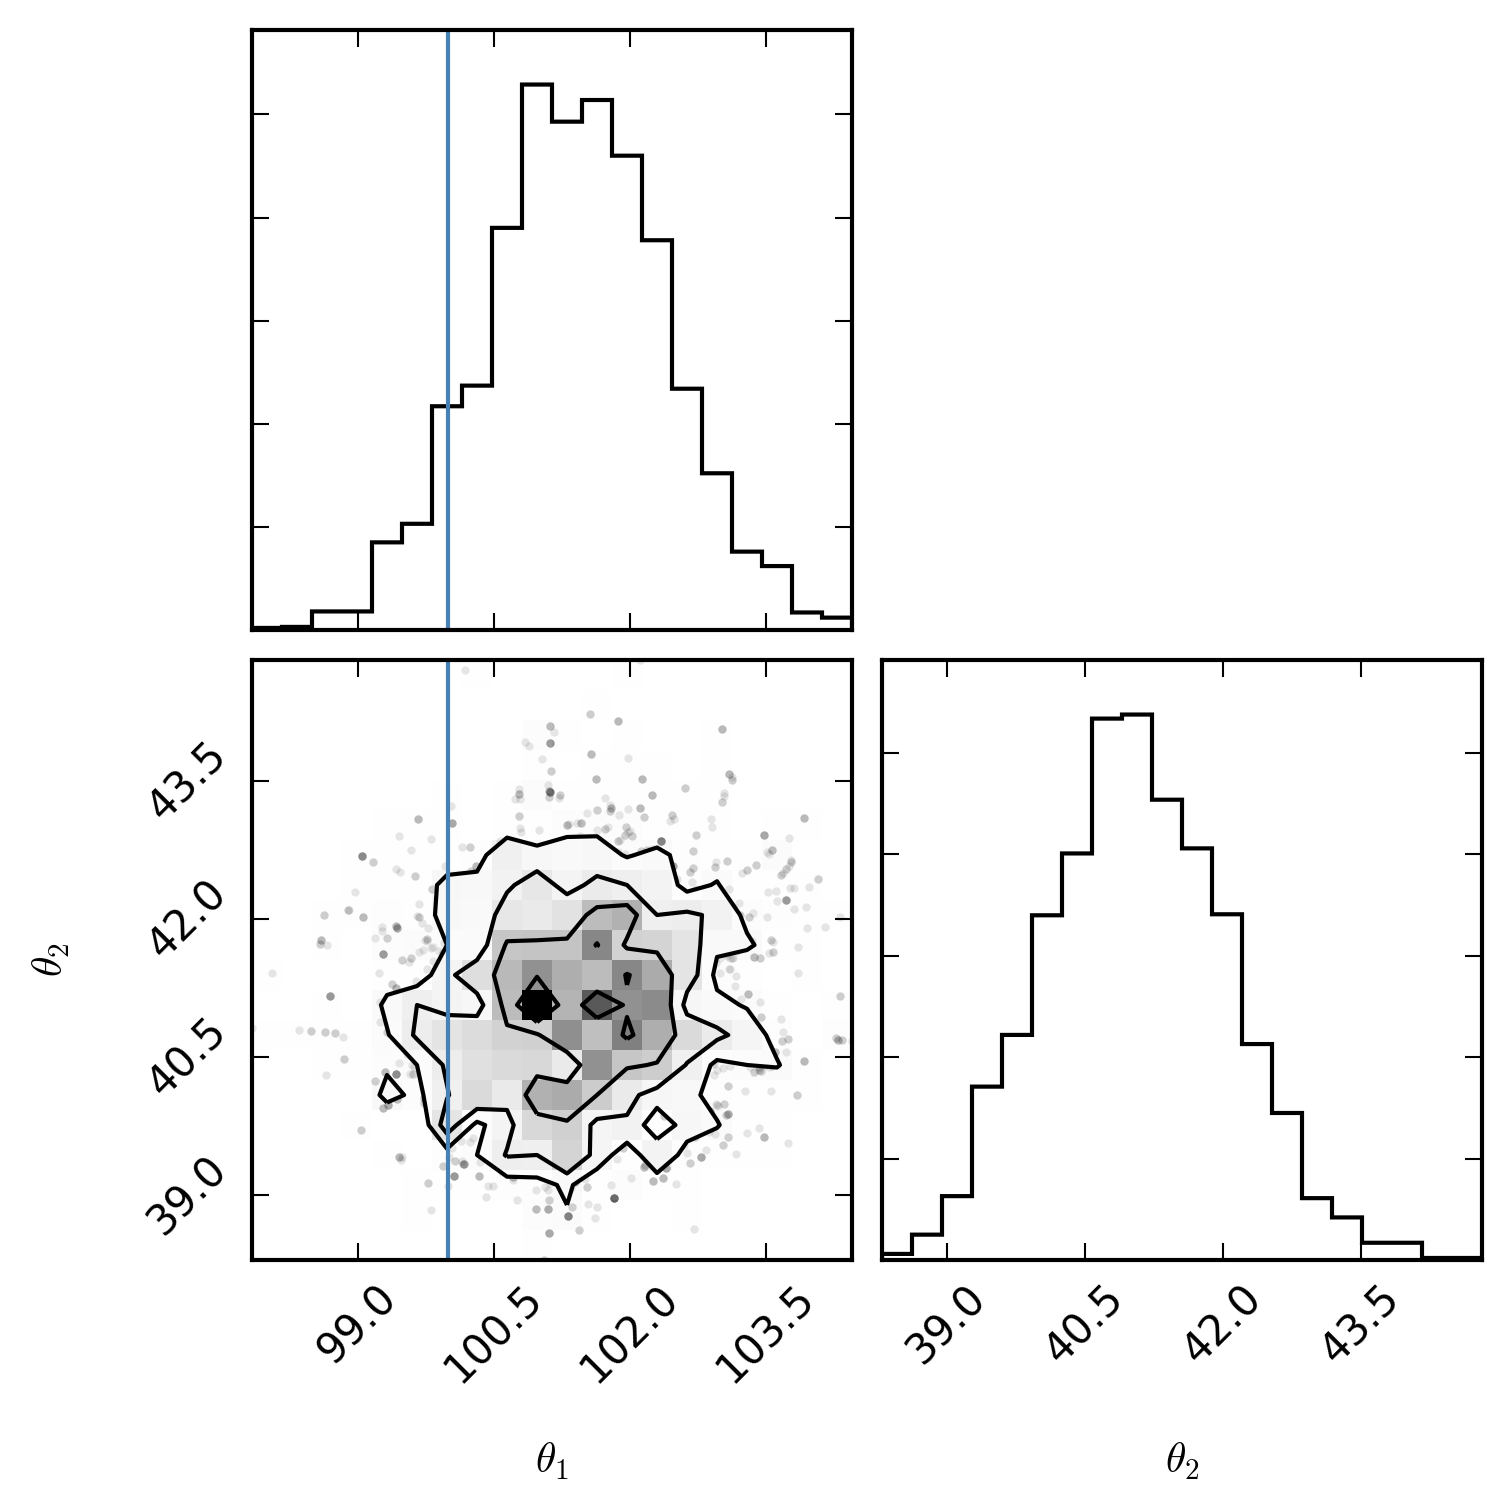
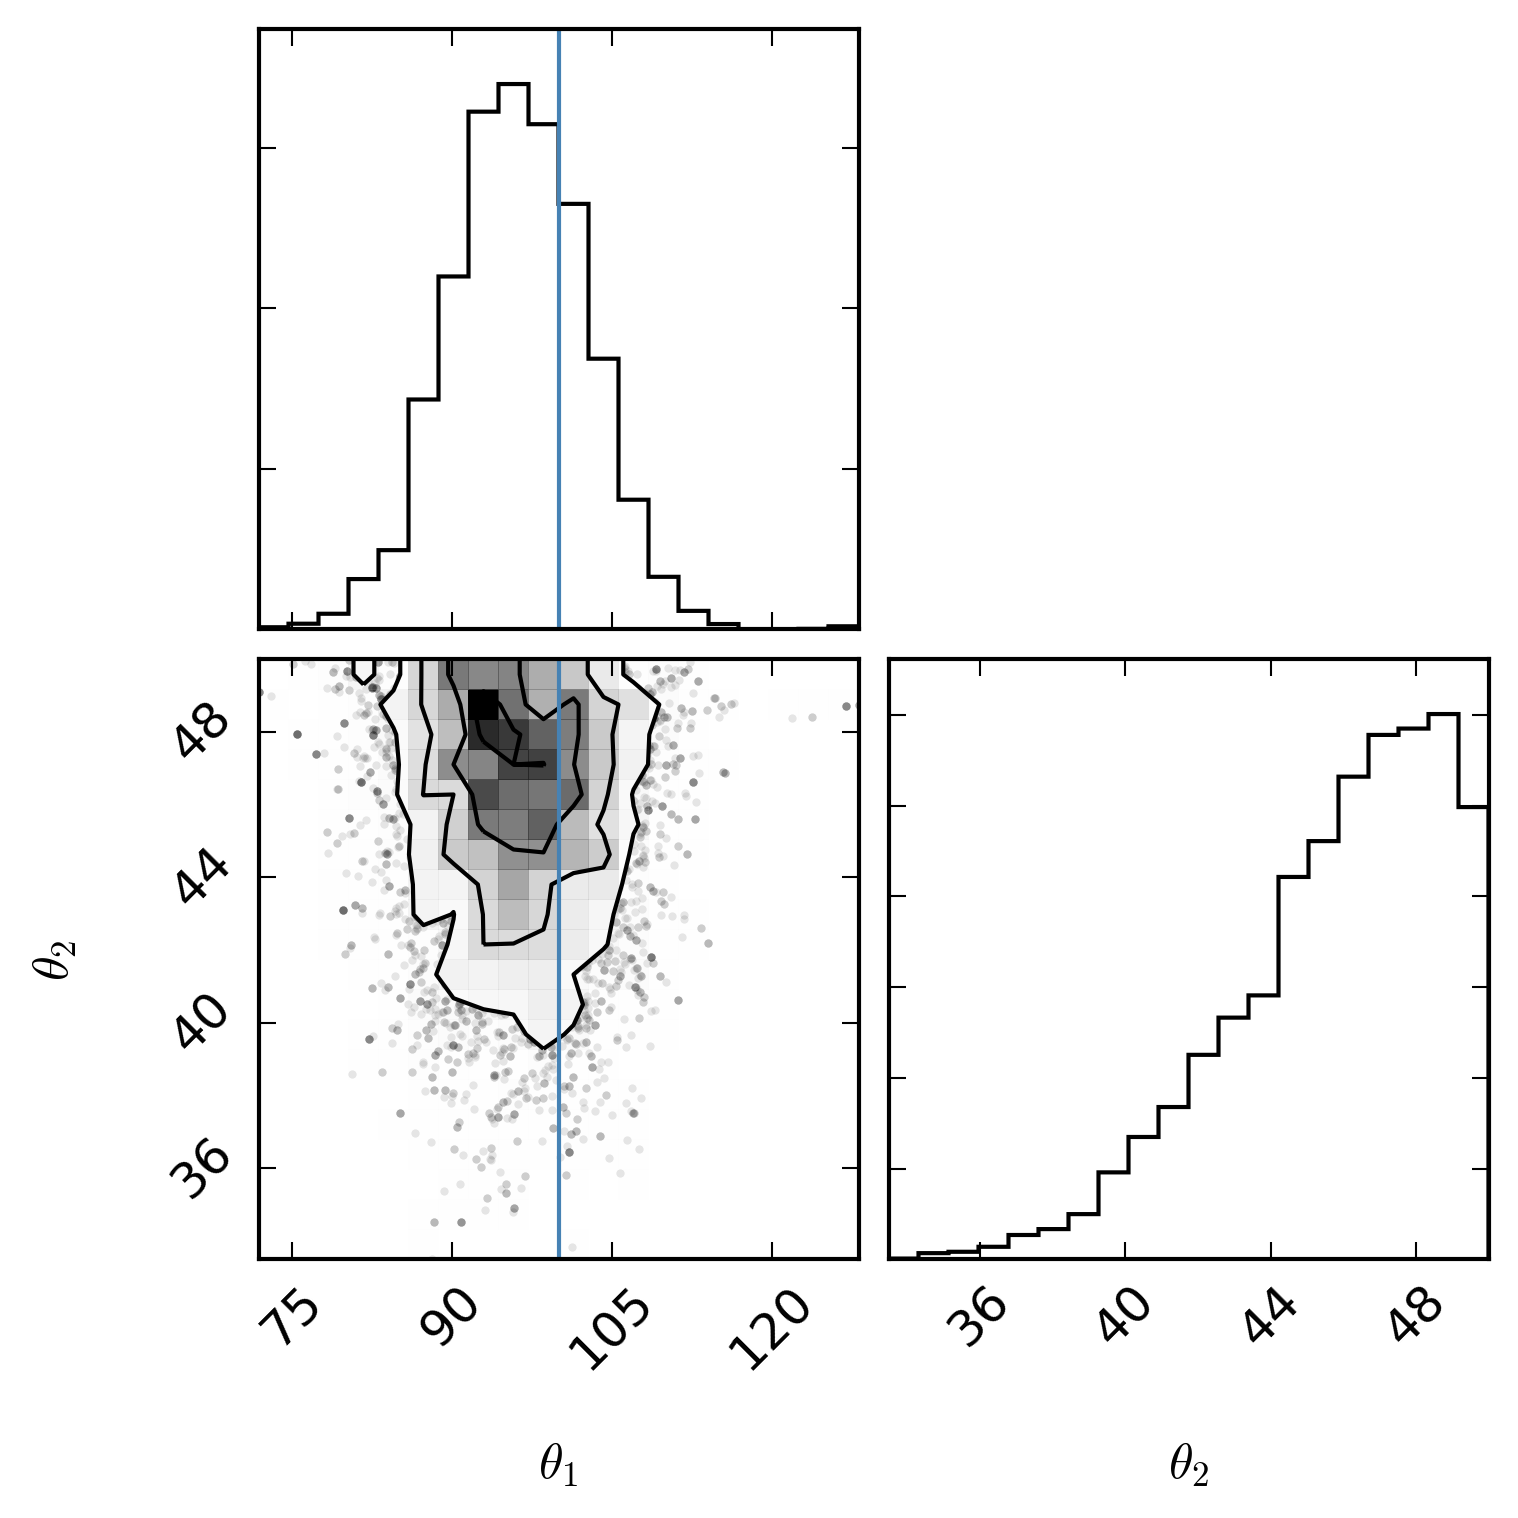
Better results using less data points...

diff --git a/dessn/simple/example.py b/dessn/simple/example.py
@@ -70,13 +70,13 @@ class Example(object):
     """
     __metaclass__ = abc.ABCMeta
 
-    def __init__(self, n=300, theta_1=100.0, theta_2=30.0):
+    def __init__(self, n=30, theta_1=100.0, theta_2=20.0):
         self.n = n
         self.theta_1 = theta_1
         self.theta_2 = theta_2
 
         self.data = stats.norm.rvs(size=n, loc=theta_1, scale=theta_2)
-        self.error = 0.2 * np.sqrt(self.data)
+        self.error = 0.3 * np.sqrt(self.data)
         self.data += stats.norm.rvs(size=n) * self.error
 
         self.sampler = None
@@ -160,10 +160,9 @@ class Example(object):
 
         sampler = emcee.EnsembleSampler(nwalkers, ndim, self.get_posterior, args=[self.data, self.error],
                                         live_dangerously=True)
-        pbar = ProgressBar(widgets=[Counter(), "/" + str(nsteps) + " ", Percentage(), Bar(), Timer(), " ", ETA()],
-                           maxval=nsteps).start()
         for i, result in enumerate(sampler.sample(starting_guesses, iterations=nsteps)):
-            pbar.update(i)
+            if i % 100 == 0:
+                print(i)
 
         sample = sampler.chain[:, nburn:, :ndim_final]  # discard burn-in points
         sample = sample.reshape((-1, ndim_final))

diff --git a/dessn/simple/exampleLatent.py b/dessn/simple/exampleLatent.py
@@ -1,5 +1,5 @@
 import numpy as np
-from example import Example
+from dessn.simple.example import Example
 
     
 class ExampleLatent(Example):
@@ -34,7 +34,7 @@ class ExampleLatent(Example):
         The standard deviation of the underlying supernova luminosity distribution
     """
 
-    def __init__(self, n=300, theta_1=100.0, theta_2=30.0):
+    def __init__(self, n=30, theta_1=100.0, theta_2=20.0):
         super(ExampleLatent, self).__init__(n, theta_1, theta_2)
 
     def get_likelihood(self, theta, data, error):
@@ -64,7 +64,7 @@ class ExampleLatent(Example):
             return -np.inf
         return result
 
-    def do_emcee(self, nwalkers=200, nburn=1000, nsteps=4000):
+    def do_emcee(self, nwalkers=500, nburn=2000, nsteps=2500):
         """ Run the `emcee` chain and produce a corner plot.
 
         Saves a png image of the corner plot to plots/exampleLatent.png.

diff --git a/dessn/simple/exampleIntegral.py b/dessn/simple/exampleIntegral.py
@@ -1,5 +1,5 @@
 import numpy as np
-from example import Example
+from dessn.simple.example import Example
 
 
 class ExampleIntegral(Example):
@@ -25,7 +25,7 @@ class ExampleIntegral(Example):
         The standard deviation of the underlying supernova luminosity distribution
     """
 
-    def __init__(self, n=200, theta_1=100.0, theta_2=30.0):
+    def __init__(self, n=30, theta_1=100.0, theta_2=30.0):
         super(ExampleIntegral, self).__init__(n, theta_1, theta_2)
 
 
@@ -63,7 +63,7 @@ class ExampleIntegral(Example):
             return -np.inf
         return result
 
-    def do_emcee(self, nwalkers=20, nburn=500, nsteps=2000):
+    def do_emcee(self, nwalkers=20, nburn=2500, nsteps=3000):
         """ Run the `emcee` chain and produce a corner plot.
 
         Saves a png image of the corner plot to plots/exampleIntegration.png.
